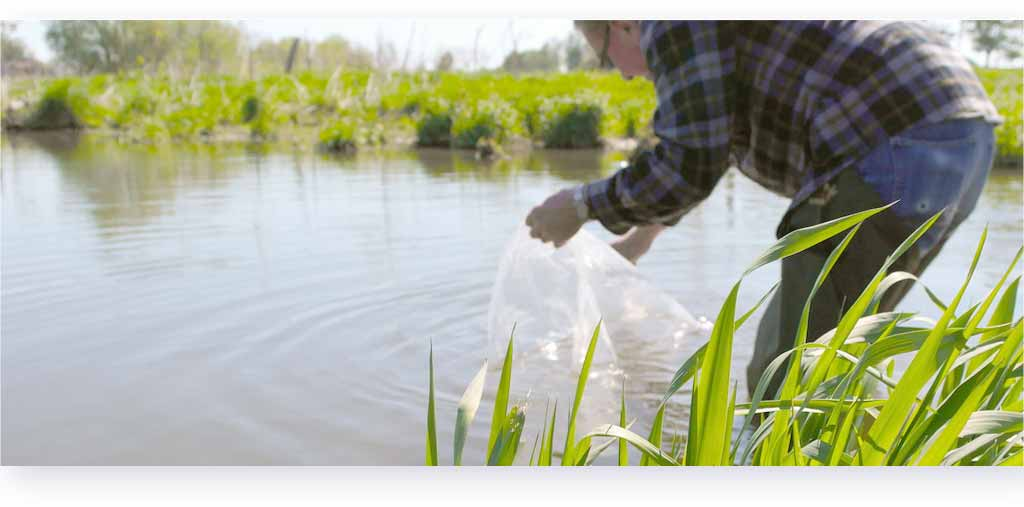
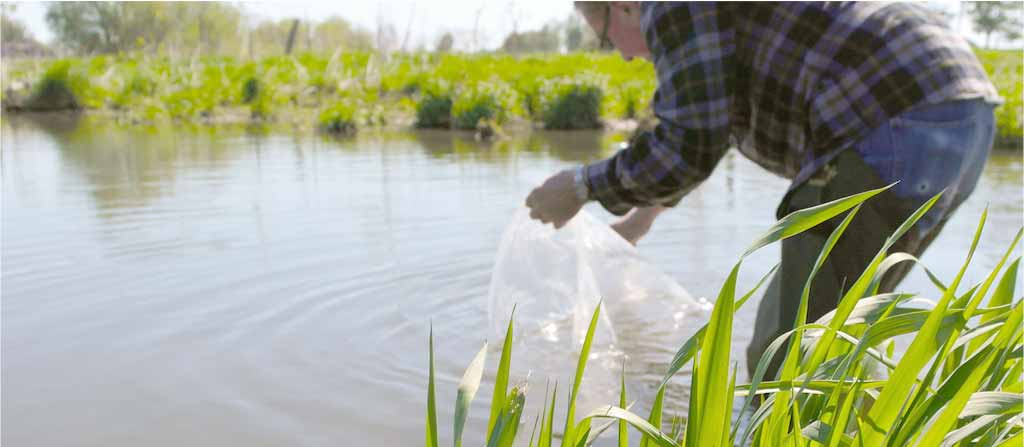
new changes to html and css

diff --git a/css/main.css b/css/main.css
@@ -90,7 +90,7 @@ body{
 header{
 	height: 175px;
 	display: flex;
-	justify-content: space-around;
+    justify-content: space-around;
 }
 
 #mainLogo{
@@ -103,8 +103,14 @@ nav a{
 	color: #535353;
 }
 
+
 #socialHead{
 	height: 25px;
+}
+
+#socialHead img{
+    width: 35px;
+    margin-left: 25px;
 }
 
 #navHead li{
@@ -131,7 +137,7 @@ nav a{
 }
 
 
-#navHead ul li a:hover{
+#socialNav a:hover{
 	color: #b7964b;
 }
 
@@ -153,6 +159,43 @@ nav a{
 
 #heroArea{
 	background-image: url("../images/hero_man.jpg");
-	height: 515px;
+	background-repeat: no-repeat; 
+    height: 447px;
 	margin-top: 0px;
+    display: flex;
+    align-items: center;
+    box-shadow: 5px 15px 9px #dddddd;
 }	
+
+#heroText{
+    margin-left: 65px;
+}
+
+#heroArea h1{
+    font-size: 54px;
+    font-style: italic;
+    color: #010101;
+    letter-spacing: -1px;
+}
+
+#heroArea p{
+    font-size: 21px;
+    font-family: 'Quattrocento';
+    font-weight: bold;
+    letter-spacing: -1px;
+    color: #010101;
+    margin-top: 20px;
+}
+
+#heroSlide{
+    display: flex;
+    justify-content: flex-end;
+    position: relative;
+    bottom: 65px;
+    right: 65px;
+}
+
+#slideImg{
+    margin-left: 15px;
+}
+

diff --git a/index.html b/index.html
@@ -19,6 +19,7 @@
 			<div><img src='images/logo.svg' id="mainLogo"></div>
 			<div id='socialNav'>
 				<div id='socialHead'>
+					
 					<img src="images/icon_facebook.svg" alt='facebook'>
 					<img src="images/icon_pinterest.svg" alt='pinterest'>
 					<img src="images/icon_twitter.svg" alt='twitter'>
@@ -46,14 +47,16 @@
 		</header>
 
 		<div id='heroArea'>
+			<div id='heroText'>
 			<h1>WELCOME TO<br>
 				THE TRAA</h1>
 				<p>"Hands-on Environmentalism" is what we do.</p>
-
-
-
+			</div>
 		</div>
-
+		<div id='heroSlide'>
+				<img src="images/plant_slide.jpg" alt='plant close up'>
+				<img src="images/fish_slide.jpg" alt='fish close up' id='slideImg'>
+			</div>
 
 
 
